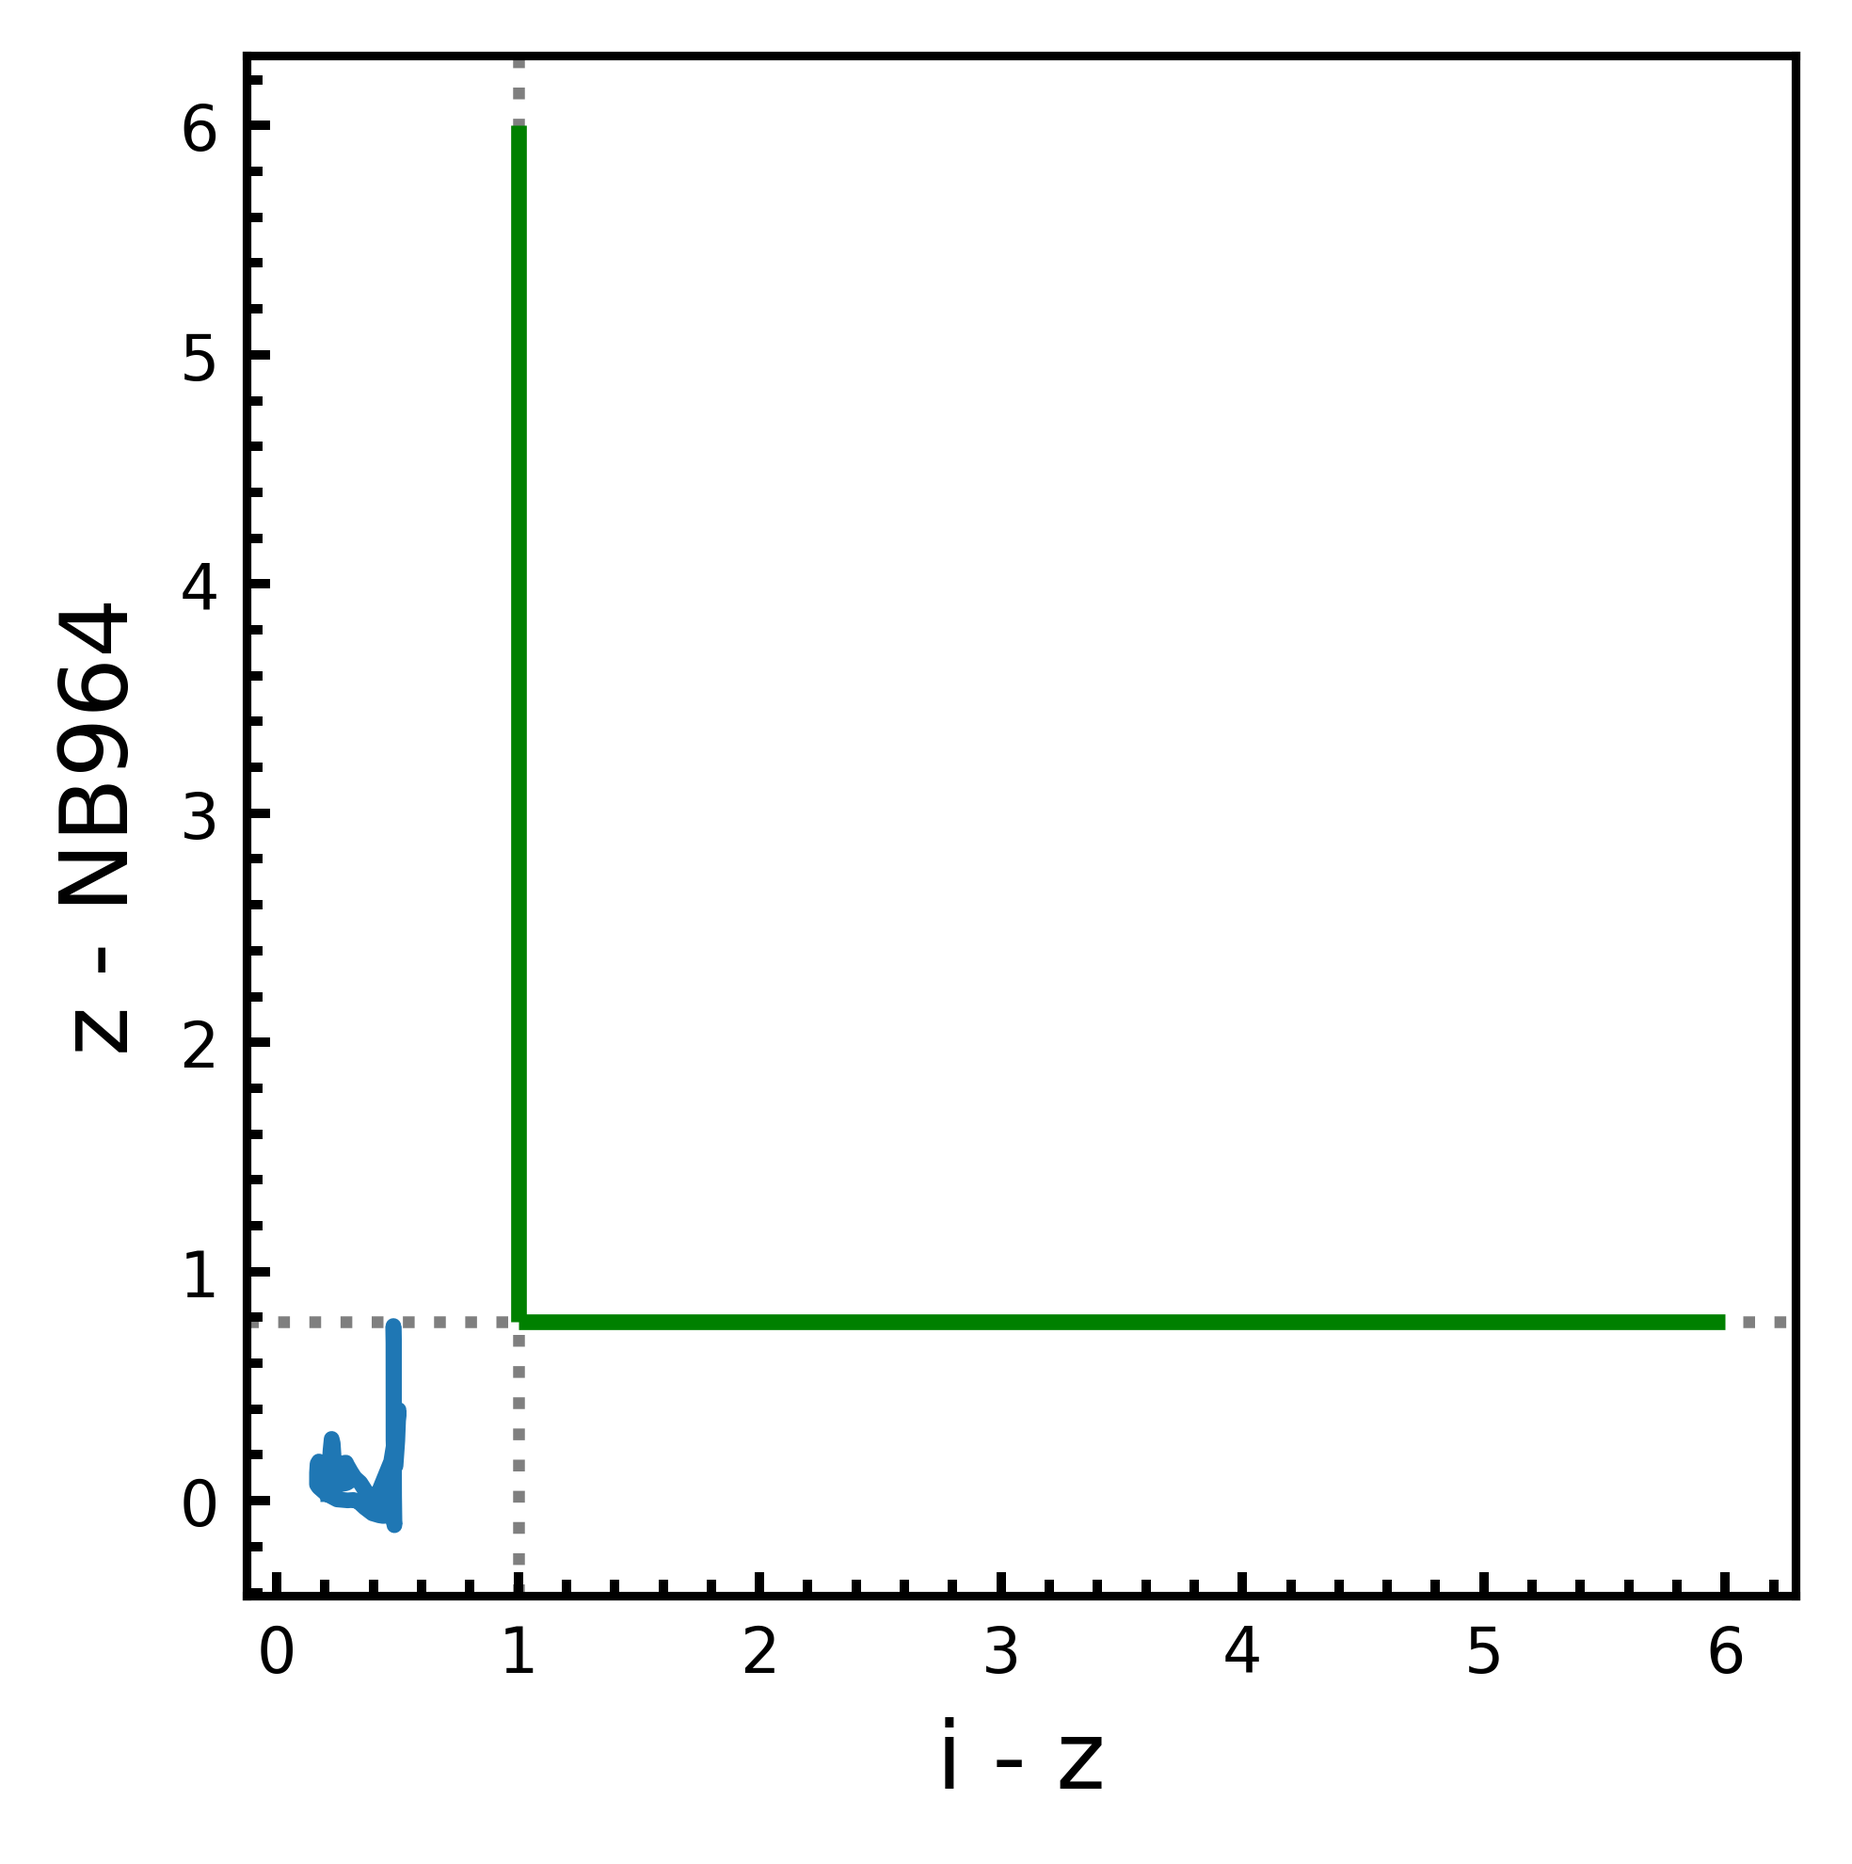
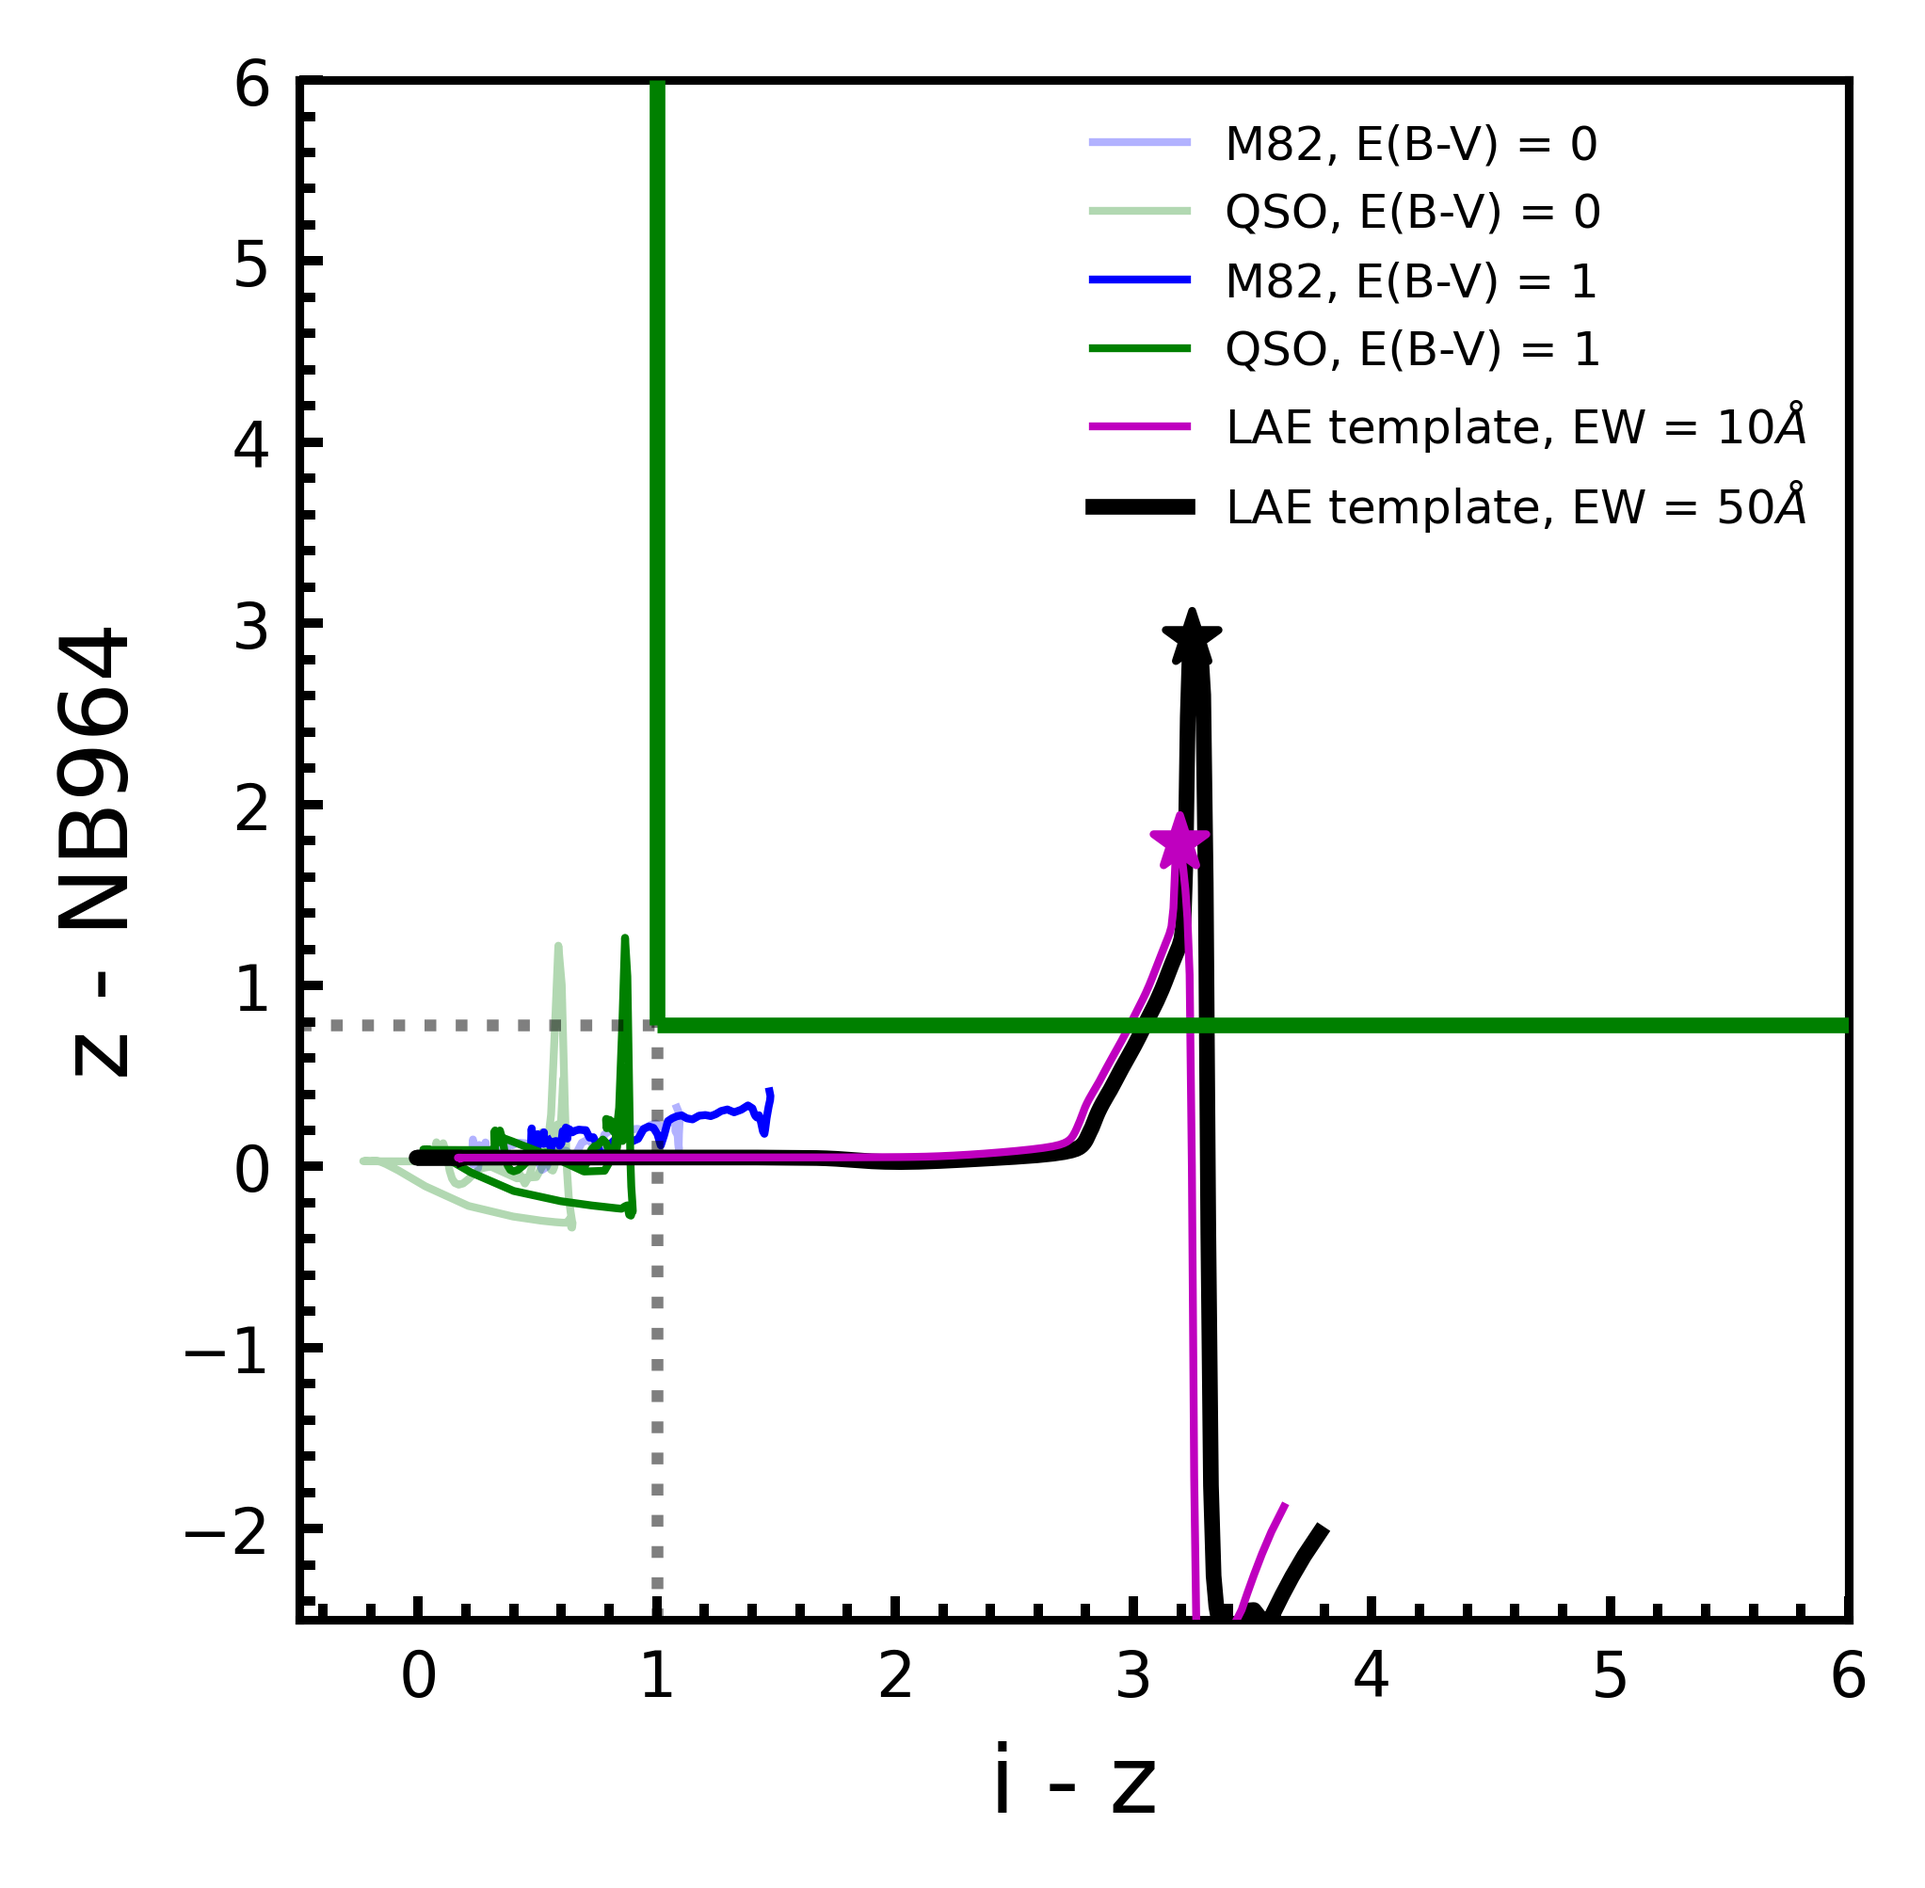
Updating color tracks

diff --git a/plot_color_color_model.py b/plot_color_color_model.py
@@ -51,22 +51,30 @@ if __name__ == '__main__':
     z_band = Filter(Z_BANDPASS_FILE)
     i_band = Filter(I_BANDPASS_FILE)
     n_band = Filter(N_BANDPASS_FILE)
-    plot_redshift_range = np.arange(0, 1.3, 0.01)
-    point_redshift_range = np.arange(0, 1.3, 0.25)
-    #plot_redshift_range = np.arange(4, 7.2, 0.01)
-    #point_redshift_range = np.arange(4, 8)
+    plot_redshift_range_sed = np.arange(0, 1.3, 0.01)
+    point_redshift_range_sed = np.arange(0, 1.3, 0.25)
+    plot_redshift_range = np.arange(4, 7.2, 0.01)
+    point_redshift_range = np.arange(4, 8)
 
-    def work_out_colors_for_redshift(redshift_range: np.ndarray, offset_velocity: float = 0):
+    def work_out_colors_for_redshift_sed(sed_spectrum_number: int, redshift_range: np.ndarray,
+            extinction: float = 0):
+        """Determines the color terms i - z and z-nb for the given redshift range. for seds"""
+        izs = []
+        znbs = []
+        for redshift in track(redshift_range):
+            spectrum = SedSpectrum(seds[sed_spectrum_number], redshift, extinction).spectrum
+            i_z = calculate_color(i_band, z_band, spectrum)
+            z_nb = calculate_color(z_band, n_band, spectrum)
+            izs.append(i_z.value)
+            znbs.append(z_nb.value)
+        return izs, znbs
+
+    def work_out_colors_for_redshift(redshift_range: np.ndarray):
         """Determines the color terms i - z and z-nb for the given redshift range."""
         izs = []
         znbs = []
         for redshift in track(redshift_range):
-            offset_redshift = redshift - offset_velocity/3e5
-            #spectrum  = LaeSpectrum(offset_redshift).spectrum
-
-            spectrum = SedSpectrum(seds[2], redshift).spectrum
-
-
+            spectrum  = LaeSpectrum(redshift).spectrum
             i_z = calculate_color(i_band, z_band, spectrum)
             z_nb = calculate_color(z_band, n_band, spectrum)
             izs.append(i_z.value)
@@ -75,25 +83,42 @@ if __name__ == '__main__':
 
     VEL_OFFSET = 0 #km/s
     start_plot('i - z', 'z - NB964')
-    for ew in range(10, 20, 10):
-        LaeSpectrum.EW_LYA = ew*u.angstrom
-        plot_i_color, plot_z_color = work_out_colors_for_redshift(plot_redshift_range, VEL_OFFSET)
-        point_i_color, point_z_color = work_out_colors_for_redshift(point_redshift_range, VEL_OFFSET)
-        #qso_i_color, qso_z_color = work_out_colors_for_redshift([6.91], VEL_OFFSET)
+    #for ew in range(10, 20, 10):
+    #    LaeSpectrum.EW_LYA = ew*u.angstrom
+    for ev in [0, 1]:
+        plot_i_color_m82, plot_z_color_m82 = work_out_colors_for_redshift_sed(0, plot_redshift_range_sed, ev)
+        point_i_color_m82, point_z_color_m82 = work_out_colors_for_redshift_sed(0, point_redshift_range_sed, ev)
+        plot_i_color_qso2, plot_z_color_qso2 = work_out_colors_for_redshift_sed(3, plot_redshift_range_sed, ev)
         
-        plt.plot(plot_i_color, plot_z_color, lw=2, label=f'{ew}' + r'\AA')
-        #plt.scatter(qso_i_color[0], qso_z_color[0], s=50, marker='*', zorder=99)
+        alpha_value = 0.3
+        if ev ==1:
+            alpha_value = 1.
+        plt.plot(plot_i_color_m82, plot_z_color_m82, lw=1, label=f'M82, E(B-V) = {ev}', color='b', alpha=alpha_value)
+        plt.plot(plot_i_color_qso2, plot_z_color_qso2, lw=1, label = f'QSO, E(B-V) = {ev}', color='g', alpha = alpha_value)
+
         #plt.scatter(point_i_color, point_z_color, marker='s', color='r')
         #for i_color, z_color, redshift in zip(point_i_color, point_z_color, point_redshift_range):
         #    plt.text(i_color, z_color, f'{redshift}', fontsize=20, zorder=100)
 
+    qso_i_color, qso_z_color = work_out_colors_for_redshift([6.91])
+    plt.scatter(qso_i_color[0], qso_z_color[0], s=50, marker='*', zorder=99, color='k')
+    LaeSpectrum.EW_LYA = 10*u.angstrom
+    qso_i_color, qso_z_color = work_out_colors_for_redshift([6.91])
+    plt.scatter(qso_i_color[0], qso_z_color[0], s=50, marker='*', zorder=99, color='m')
+    lower_i, lower_z = work_out_colors_for_redshift(plot_redshift_range)
+    LaeSpectrum.EW_LYA = 50 * u.angstrom
+    upper_i, upper_z = work_out_colors_for_redshift(plot_redshift_range)
+    plt.plot(lower_i, lower_z, lw=1, label='LAE template, EW = 10' + r'$\AA$', color='m', zorder=99)
+    plt.plot(upper_i, upper_z, lw=2, label='LAE template, EW = 50' + r'$\AA$', color='k')
+
     plt.axvline(1, ls=':', color='k', alpha=0.5)
     plt.axhline(0.78, ls=':', color='k', alpha=0.5)
-        
+
     plt.vlines(x=1, ymin=0.78, ymax=6, color='g', lw=2, zorder=99)
     plt.hlines(y=0.78, xmin=1, xmax=6, color='g', lw=2, zorder=99)
-    #plt.xlim(-0.5, 6)
-    #plt.ylim(-2.5, 6)
+    plt.xlim(-0.5, 6)
+    plt.ylim(-2.5, 6)
+    plt.legend(loc=1, frameon=False, fontsize=6)
     end_plot('plots/tracks.png')
     plt.show()
 

diff --git a/synthetic_lae_spectrum.py b/synthetic_lae_spectrum.py
@@ -24,13 +24,13 @@ def gaussian(x_array: np.ndarray, mean: float, sigma: float, amplitude: float) -
 class SedSpectrum:
     """SED spectrum provided by https://www.iasf-milano.inaf.it/~polletta/templates/swire_templates.html"""
 
-    def __init__(self, file_name: str, redshift: float, include_extinction: bool=True) -> None:
+    def __init__(self, file_name: str, redshift: float, extinction: float = 0) -> None:
         self.rest_spectrum = SourceSpectrum.from_file(
             file_name, keep_neg=True, wave_unit='Angstrom', flux_unit='FLAM')
         self.red_shifted_spectrum = SourceSpectrum(
             self.rest_spectrum.model, z=redshift, z_type='conserve_flux')
         self.wave = self.rest_spectrum.to_spectrum1d().spectral_axis
-        self.apply_extinction = include_extinction
+        self.extinction = extinction
         self.z = redshift
         self.flux = self.rest_spectrum.to_spectrum1d().flux
 
@@ -39,10 +39,8 @@ class SedSpectrum:
         """Redshifted, and if appropriate, extinction corrected spectrum."""
         flux = self.flux/(1+self.z)
         spectrum = SourceSpectrum(Empirical1D, points=self.wave*(1+self.z), lookup_table=flux, keep_neg=True)
-
-        if self.apply_extinction is True:
-            extinction_curve = ReddeningLaw.from_extinction_model('xgalsb').extinction_curve(1)
-            spectrum = spectrum * extinction_curve
+        extinction_curve = ReddeningLaw.from_extinction_model('xgalsb').extinction_curve(self.extinction)
+        spectrum = spectrum * extinction_curve
         return spectrum
 
 class LaeSpectrum:
